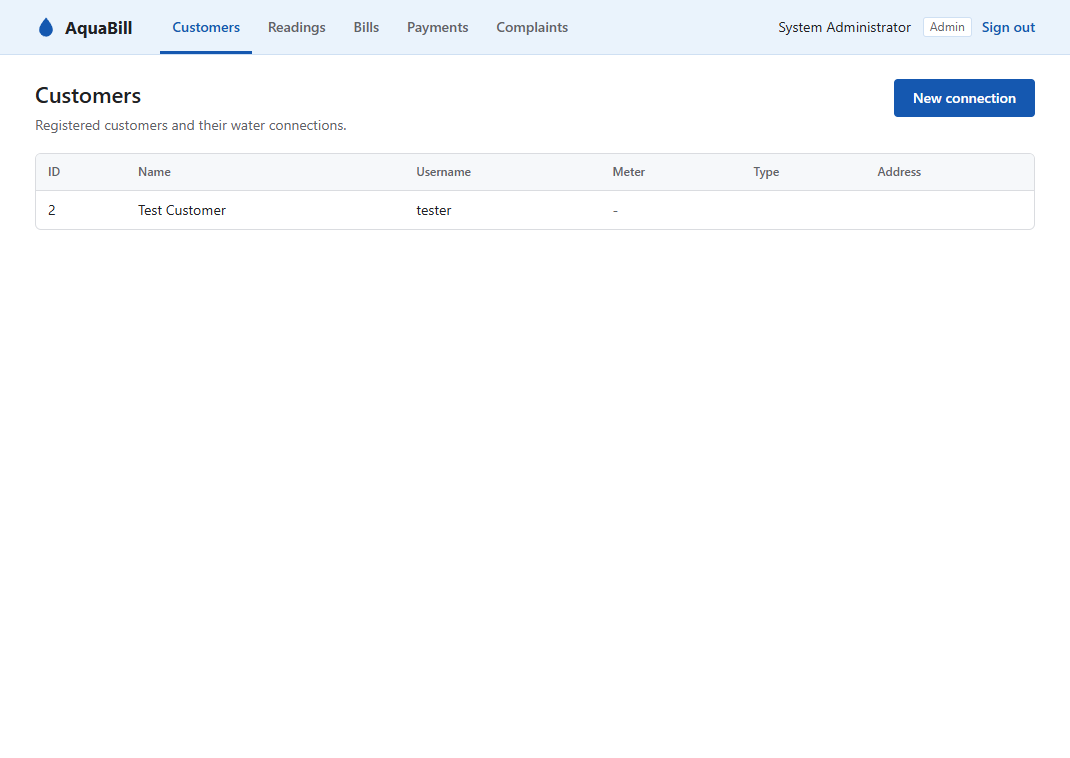
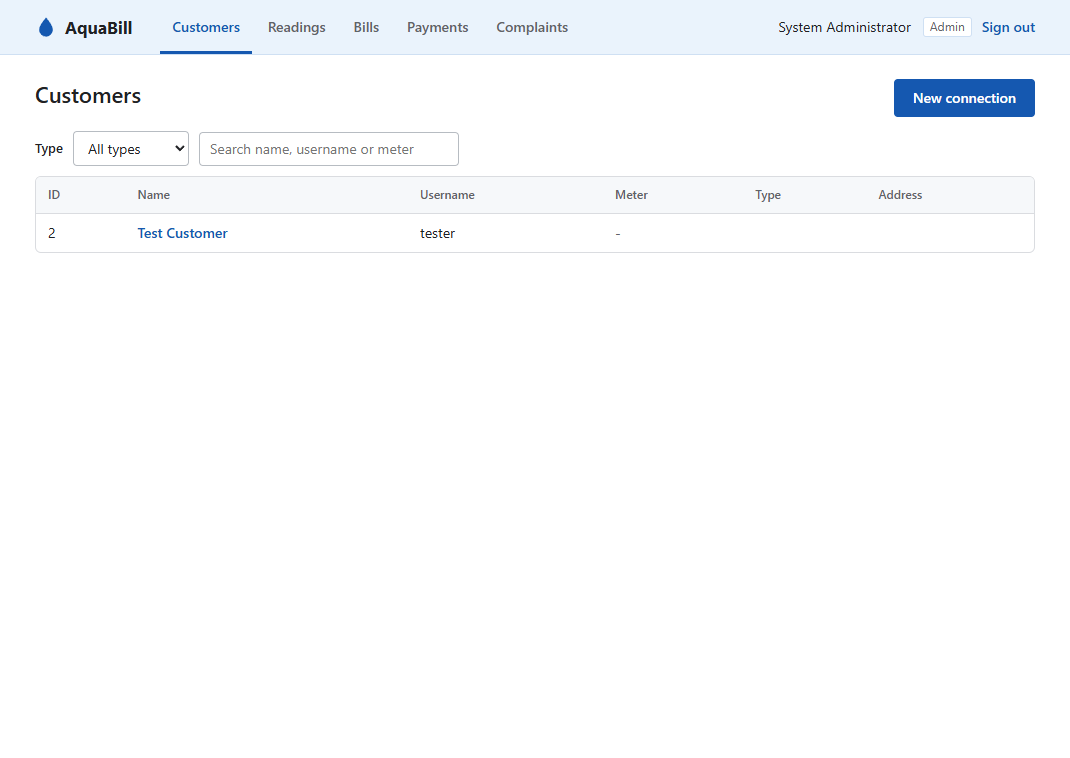
Add reading-list API tests and UI tests TC-UI12 to TC-UI16; refresh screenshots

diff --git a/05_Test_Automation/test_ui_selenium.py b/05_Test_Automation/test_ui_selenium.py
@@ -156,6 +156,22 @@ def choose(d, elem_id, value=None, index=None):
     raise AssertionError(f"could not select an option in #{elem_id}")
 
 
+def add_reading_ui(d, meter, value):
+    """Open the Add reading popup for one meter, enter a reading and save it."""
+    for _ in range(6):
+        try:
+            WebDriverWait(d, 8).until(EC.element_to_be_clickable((By.CSS_SELECTOR, f".add-reading-btn[data-meter='{meter}']"))).click()
+            break
+        except StaleElementReferenceException:
+            time.sleep(0.4)
+    wait_visible(d, "rd-modal")
+    fill(d, "m-read", value)
+    d.find_element(By.ID, "read-btn").click()
+    WebDriverWait(d, 8).until(EC.invisibility_of_element_located((By.ID, "rd-modal")))
+    text_of(d, "toast", "Reading saved")
+    time.sleep(0.6)                                    # the table re-renders after saving
+
+
 def test_TC_UI05_end_to_end_billing_and_payment(driver):
     # 1. customer registers from the Create account tab
     driver.find_element(By.ID, "tab-register").click()
@@ -178,15 +194,9 @@ def test_TC_UI05_end_to_end_billing_and_payment(driver):
     WebDriverWait(driver, 8).until(EC.invisibility_of_element_located((By.ID, "conn-modal")))
     WebDriverWait(driver, 8).until(EC.text_to_be_present_in_element((By.ID, "customer-rows"), "UIMTR1"))
     open_page(driver, "readings")
-    WebDriverWait(driver, 8).until(EC.presence_of_element_located((By.ID, "m-conn")))
-    choose(driver, "m-conn", index=1)
-    fill(driver, "m-read", 50)
-    driver.find_element(By.ID, "read-btn").click()
-    text_of(driver, "toast", "Reading saved")
-    fill(driver, "m-read", 75)
-    driver.find_element(By.ID, "read-btn").click()
-    time.sleep(0.6)
-    driver.find_element(By.ID, "gen-btn").click()
+    add_reading_ui(driver, "UIMTR1", 50)
+    add_reading_ui(driver, "UIMTR1", 75)
+    WebDriverWait(driver, 8).until(EC.element_to_be_clickable((By.CSS_SELECTOR, ".gen-btn[data-meter='UIMTR1']"))).click()
     assert "\u20b9240.00" in text_of(driver, "toast", "generated")
     shot(driver, "UI05a_bill_generated")
     # 3. customer signs in, sees the unpaid bill and pays it
@@ -277,6 +287,10 @@ def test_TC_UI09_complaint_raised_by_customer_and_updated_by_admin(driver, base_
     open_page(driver, "complaints")
     WebDriverWait(driver, 8).until(EC.element_to_be_clickable((By.CSS_SELECTOR, "#complaint-rows .cu-btn"))).click()
     wait_visible(driver, "cu-modal")
+    options = Select(driver.find_element(By.ID, "cu-status")).options
+    assert [o.text for o in options] == ["Open (current)", "In progress", "Resolved"]
+    assert [o.is_enabled() for o in options] == [False, True, False]
+    shot(driver, "UI09c_update_complaint")
     driver.find_element(By.ID, "cu-save").click()
     WebDriverWait(driver, 8).until(EC.text_to_be_present_in_element((By.ID, "complaint-rows"), "In progress"))
     shot(driver, "UI09b_admin_complaints")
@@ -287,7 +301,10 @@ def test_TC_UI10_customer_changes_password(driver, base_url):
     login(driver, "pwuser", "secret1")
     wait_visible(driver, "app")
     driver.find_element(By.ID, "who").click()
-    WebDriverWait(driver, 8).until(EC.presence_of_element_located((By.ID, "p-pass-btn")))
+    WebDriverWait(driver, 8).until(EC.element_to_be_clickable((By.ID, "p-menu-btn"))).click()
+    shot(driver, "UI10a_profile_menu")
+    driver.find_element(By.ID, "menu-password").click()
+    wait_visible(driver, "pw-modal")
     fill(driver, "p-cur", "secret1")
     fill(driver, "p-new", "newsecret9")
     fill(driver, "p-new2", "different9")
@@ -295,11 +312,25 @@ def test_TC_UI10_customer_changes_password(driver, base_url):
     assert "do not match" in text_of(driver, "p-pass-msg", "match")
     fill(driver, "p-new2", "newsecret9")
     driver.find_element(By.ID, "p-pass-btn").click()
-    assert "Password changed" in text_of(driver, "p-pass-msg", "Password changed")
-    shot(driver, "UI10_profile")
+    assert "Password changed" in text_of(driver, "toast", "Password changed")
     logout(driver)
     login(driver, "pwuser", "newsecret9")
     wait_visible(driver, "app")
+
+
+def test_TC_UI12_profile_name_is_edited_through_the_menu(driver, base_url):
+    ensure_customer(base_url, "renamer")
+    login(driver, "renamer", "secret1")
+    wait_visible(driver, "app")
+    driver.find_element(By.ID, "who").click()
+    WebDriverWait(driver, 8).until(EC.element_to_be_clickable((By.ID, "p-menu-btn"))).click()
+    driver.find_element(By.ID, "menu-name").click()
+    wait_visible(driver, "pn-modal")
+    fill(driver, "p-name", "Renamed Person")
+    driver.find_element(By.ID, "p-name-btn").click()
+    WebDriverWait(driver, 8).until(EC.text_to_be_present_in_element((By.ID, "profile-name"), "Renamed Person"))
+    assert driver.find_element(By.ID, "who").text == "Renamed Person"
+    shot(driver, "UI12_profile")
 
 
 def test_TC_UI11_account_locks_after_five_failed_sign_ins(driver, base_url):
@@ -312,3 +343,66 @@ def test_TC_UI11_account_locks_after_five_failed_sign_ins(driver, base_url):
     login(driver, "lockme", "secret1")                      # even the right password is refused while locked
     time.sleep(0.6)
     assert not driver.find_element(By.ID, "app").is_displayed()
+
+
+# ---------------- customer history, type filter, captions ----------------
+def test_TC_UI13_clicking_a_customer_name_opens_their_history(driver, base_url):
+    make_billed_customer(base_url, "history1", "HISTMTR1")
+    login_as_admin(driver)
+    WebDriverWait(driver, 8).until(EC.text_to_be_present_in_element((By.ID, "customer-rows"), "Billed history1"))
+    for _ in range(5):
+        try:
+            driver.find_element(By.XPATH, "//a[contains(@class,'cust-link') and text()='Billed history1']").click()
+            break
+        except StaleElementReferenceException:
+            time.sleep(0.4)
+    WebDriverWait(driver, 8).until(EC.text_to_be_present_in_element((By.ID, "detail-name"), "Billed history1"))
+    assert "HISTMTR1" in driver.find_element(By.ID, "detail-pane").text or "HISTMTR1" in driver.find_element(By.ID, "view").text
+    WebDriverWait(driver, 8).until(EC.text_to_be_present_in_element((By.ID, "bill-rows"), "Unpaid"))
+    driver.find_element(By.ID, "dtab-readings").click()
+    WebDriverWait(driver, 8).until(EC.text_to_be_present_in_element((By.ID, "detail-pane"), "first reading"))
+    shot(driver, "UI13_customer_history")
+    driver.find_element(By.ID, "back-customers").click()
+    WebDriverWait(driver, 8).until(EC.presence_of_element_located((By.ID, "type-filter")))
+
+
+def test_TC_UI14_customers_can_be_filtered_by_connection_type(driver, base_url):
+    h = api_admin_headers(base_url)
+    cid = httpx.post(base_url + "/api/auth/register",
+                     json={"username": "commco", "password": "secret1", "full_name": "Commercial Co"}).json().get("id")
+    if cid:
+        httpx.post(base_url + "/api/connections", headers=h, json={
+            "customer_id": cid, "meter_no": "COMMTR9", "type": "COMMERCIAL", "address": "9 Market Road"})
+    make_billed_customer(base_url, "domestic9", "DOMMTR9")
+    login_as_admin(driver)
+    WebDriverWait(driver, 8).until(EC.presence_of_element_located((By.ID, "type-filter")))
+    time.sleep(0.8)
+    Select(driver.find_element(By.ID, "type-filter")).select_by_value("COMMERCIAL")
+    rows = driver.find_element(By.ID, "customer-rows").text
+    assert "Commercial Co" in rows and "Billed domestic9" not in rows
+    shot(driver, "UI14_filter_commercial")
+    Select(driver.find_element(By.ID, "type-filter")).select_by_value("DOMESTIC")
+    rows = driver.find_element(By.ID, "customer-rows").text
+    assert "Billed domestic9" in rows and "Commercial Co" not in rows
+
+
+def test_TC_UI15_pages_have_no_caption_under_the_heading(driver, base_url):
+    login_as_admin(driver)
+    for page in ("customers", "readings", "bills", "payments", "complaints"):
+        driver.find_element(By.ID, "nav-" + page).click()
+        time.sleep(0.8)
+        assert driver.find_elements(By.CSS_SELECTOR, ".lead") == [], page
+
+
+def test_TC_UI16_reading_page_enables_billing_only_when_a_new_reading_exists(driver, base_url):
+    make_billed_customer(base_url, "readcheck", "RDCHKMTR")     # has 2 readings and a bill already
+    login_as_admin(driver)
+    driver.find_element(By.ID, "nav-readings").click()
+    row_btn = WebDriverWait(driver, 8).until(EC.presence_of_element_located((By.CSS_SELECTOR, ".gen-btn[data-meter='RDCHKMTR']")))
+    time.sleep(0.5)
+    row_btn = driver.find_element(By.CSS_SELECTOR, ".gen-btn[data-meter='RDCHKMTR']")
+    assert not row_btn.is_enabled()                              # already billed: nothing new to bill
+    assert "Billed" in driver.find_element(By.ID, "reading-rows").text
+    add_reading_ui(driver, "RDCHKMTR", 60)
+    assert driver.find_element(By.CSS_SELECTOR, ".gen-btn[data-meter='RDCHKMTR']").is_enabled()   # new reading: ready to bill
+    shot(driver, "UI16_readings_table")

diff --git a/05_Test_Automation/test_api.py b/05_Test_Automation/test_api.py
@@ -309,3 +309,28 @@ def test_TC_A59_customer_cannot_list_customers(client, customer):
 def test_TC_A60_login_works_with_any_username_case(client, customer):
     r = client.post("/api/auth/login", json={"username": "ALICE", "password": "secret1"})
     assert r.status_code == 200
+
+
+# ---------------- reading history (used by the Readings and customer history screens) ----------------
+def test_TC_A114_admin_lists_readings_in_order_with_meter_number(client, admin, connection):
+    add_reading(client, admin, connection, 100, "2026-01-01")
+    add_reading(client, admin, connection, 125, "2026-02-01")
+    rows = client.get("/api/readings", headers=admin).json()
+    assert [r["reading"] for r in rows] == [100, 125] and rows[0]["meter_no"] == "MTR001"
+
+
+def test_TC_A115_readings_can_be_filtered_by_connection(client, admin, customer, connection):
+    other = client.post("/api/connections", headers=admin, json={
+        "customer_id": customer[0], "meter_no": "MTR002", "type": "DOMESTIC", "address": "2 Lake Road"}).json()["id"]
+    add_reading(client, admin, connection, 100, "2026-01-01")
+    add_reading(client, admin, other, 7, "2026-01-01")
+    rows = client.get("/api/readings", headers=admin, params={"connection_id": other}).json()
+    assert len(rows) == 1 and rows[0]["meter_no"] == "MTR002"
+
+
+def test_TC_A116_customer_cannot_list_readings(client, customer):
+    assert client.get("/api/readings", headers=customer[1]).status_code == 403
+
+
+def test_TC_A117_readings_require_login(client):
+    assert client.get("/api/readings").status_code == 401
